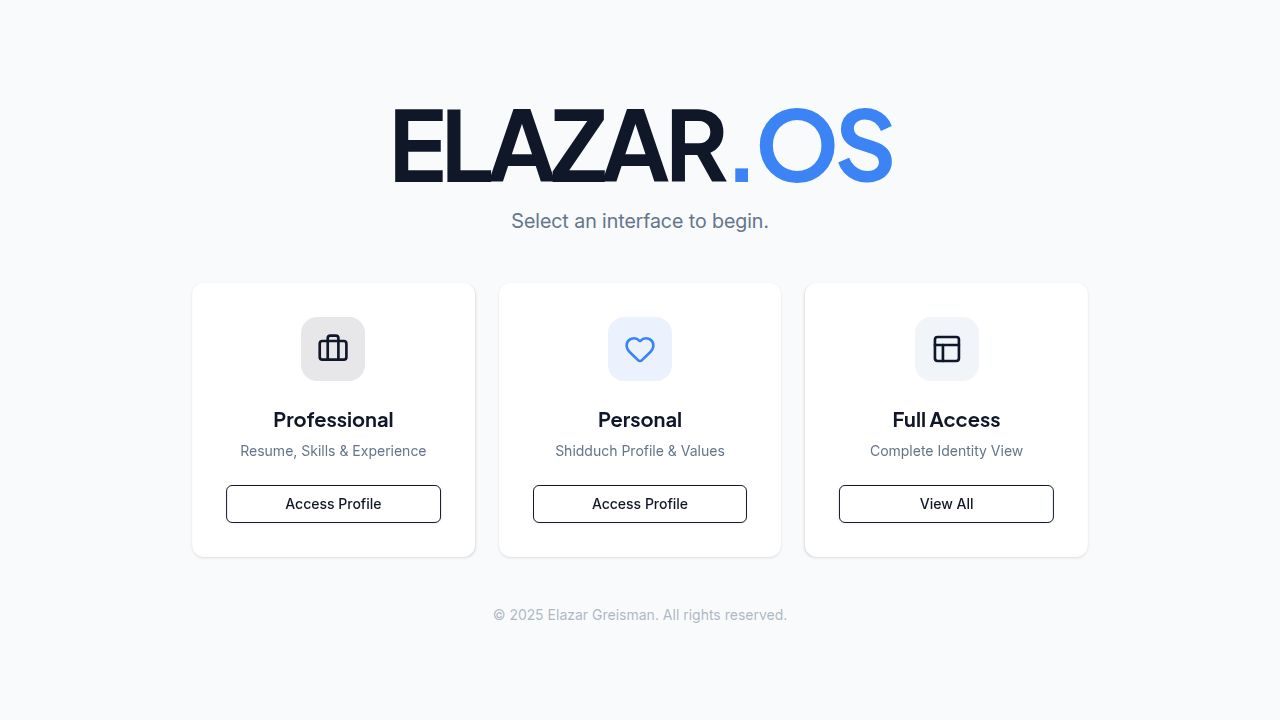
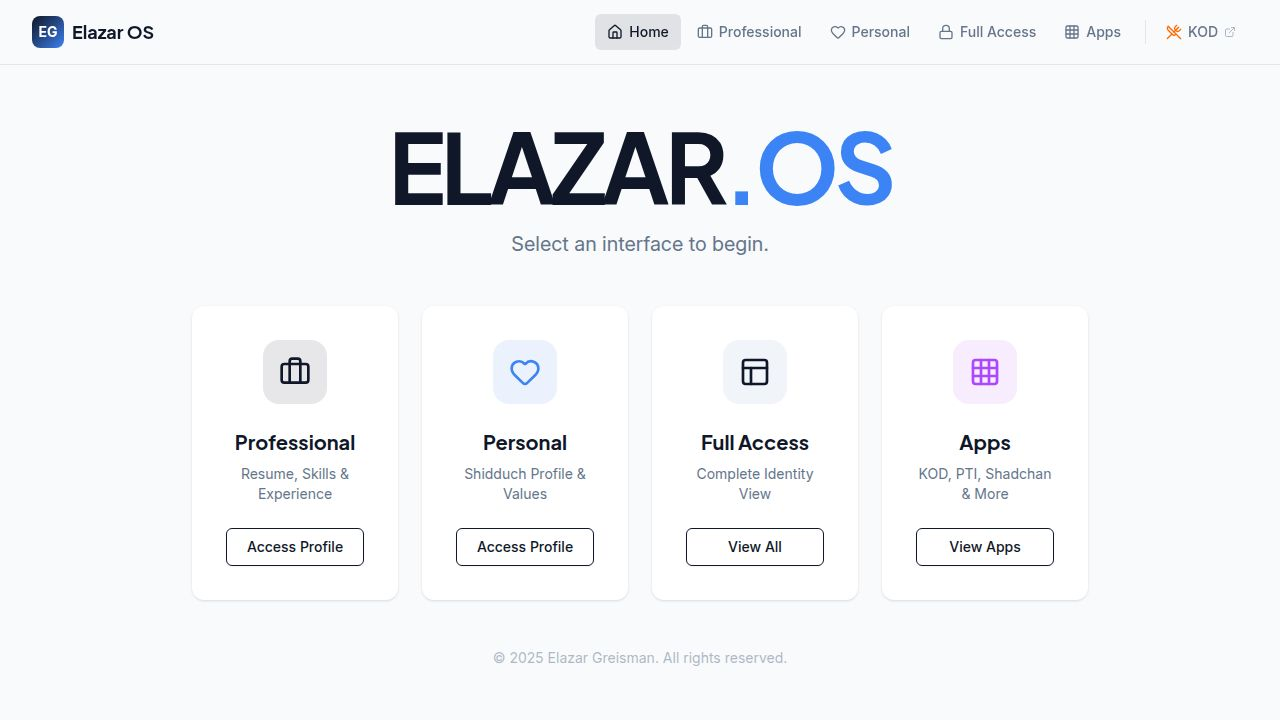
Update app navigation to show inactive status and disable clicks
Introduce an 'active' boolean to app configurations, update the UI to visually distinguish inactive apps with a disabled state and a "Paused" label, and modify navigation and redirect logic to prevent access to inactive applications.

Replit-Commit-Author: Agent
Replit-Commit-Session-Id: 11160768-0161-498d-b8f9-d958f617b627
Replit-Commit-Checkpoint-Type: intermediate_checkpoint
Replit-Commit-Event-Id: 2a1508cf-77b3-41a4-a05e-ec23b7ae3195
Replit-Commit-Screenshot-Url: https://storage.googleapis.com/screenshot-production-us-central1/93612fda-ee90-45bd-998a-401843e1e846/11160768-0161-498d-b8f9-d958f617b627/NwqTD3d
Replit-Helium-Checkpoint-Created: true

diff --git a/client/src/pages/apps-hub-page.tsx b/client/src/pages/apps-hub-page.tsx
@@ -1,9 +1,10 @@
-import { motion } from "framer-motion";
-import { ExternalLink, ArrowRight } from "lucide-react";
+import { useState } from "react";
+import { motion, AnimatePresence } from "framer-motion";
+import { ExternalLink, ArrowRight, PauseCircle, X } from "lucide-react";
 import { Card, CardContent, CardHeader, CardTitle, CardDescription } from "@/components/ui/card";
 import { Button } from "@/components/ui/button";
 import { Badge } from "@/components/ui/badge";
-import { APPS } from "@/lib/apps-config";
+import { APPS, type AppConfig } from "@/lib/apps-config";
 import { cn } from "@/lib/utils";
 import { TopNavigation } from "@/components/top-navigation";
 
@@ -28,9 +29,61 @@ const itemVariants = {
 };
 
 export default function AppsHubPage() {
+  const [pausedAppMessage, setPausedAppMessage] = useState<AppConfig | null>(null);
+
+  const handleAppClick = (app: AppConfig) => {
+    if (app.active) {
+      window.open(app.replitUrl, "_blank");
+    } else {
+      setPausedAppMessage(app);
+    }
+  };
+
   return (
     <div className="min-h-screen bg-background font-sans">
       <TopNavigation />
+
+      {/* Paused App Modal */}
+      <AnimatePresence>
+        {pausedAppMessage && (
+          <motion.div
+            initial={{ opacity: 0 }}
+            animate={{ opacity: 1 }}
+            exit={{ opacity: 0 }}
+            className="fixed inset-0 z-50 flex items-center justify-center bg-black/50 p-4"
+            onClick={() => setPausedAppMessage(null)}
+          >
+            <motion.div
+              initial={{ scale: 0.9, opacity: 0 }}
+              animate={{ scale: 1, opacity: 1 }}
+              exit={{ scale: 0.9, opacity: 0 }}
+              className="bg-card rounded-xl shadow-2xl max-w-md w-full p-6 relative"
+              onClick={(e) => e.stopPropagation()}
+            >
+              <button
+                onClick={() => setPausedAppMessage(null)}
+                className="absolute top-4 right-4 text-muted-foreground hover:text-foreground"
+                data-testid="close-paused-modal"
+              >
+                <X className="w-5 h-5" />
+              </button>
+              
+              <div className="flex flex-col items-center text-center space-y-4">
+                <div className="w-16 h-16 rounded-full bg-muted flex items-center justify-center">
+                  <PauseCircle className="w-8 h-8 text-muted-foreground" />
+                </div>
+                <h3 className="text-xl font-bold text-primary">{pausedAppMessage.name}</h3>
+                <p className="text-muted-foreground">
+                  {pausedAppMessage.pausedMessage || "This app is temporarily unavailable."}
+                </p>
+                <Button variant="outline" onClick={() => setPausedAppMessage(null)}>
+                  Got it
+                </Button>
+              </div>
+            </motion.div>
+          </motion.div>
+        )}
+      </AnimatePresence>
       
       <div className="max-w-6xl mx-auto p-4 md:p-8 lg:p-12">
         <motion.div
@@ -57,17 +110,24 @@ export default function AppsHubPage() {
           >
             {APPS.map((app) => {
               const Icon = app.icon;
+              const isInactive = !app.active;
+              
               return (
                 <motion.div key={app.id} variants={itemVariants}>
                   <Card 
-                    className="h-full overflow-hidden border-none shadow-lg hover:shadow-xl transition-all duration-300 group cursor-pointer"
-                    onClick={() => window.open(app.replitUrl, "_blank")}
+                    className={cn(
+                      "h-full overflow-hidden border-none shadow-lg transition-all duration-300 group",
+                      isInactive 
+                        ? "opacity-60 grayscale cursor-not-allowed" 
+                        : "hover:shadow-xl cursor-pointer"
+                    )}
+                    onClick={() => handleAppClick(app)}
                     data-testid={`app-card-${app.id}`}
                   >
                     {/* Gradient Header */}
                     <div className={cn(
                       "h-2 bg-gradient-to-r",
-                      app.gradient
+                      isInactive ? "from-gray-400 to-gray-500" : app.gradient
                     )} />
                     
                     <CardHeader className="pb-2">
@@ -75,15 +135,25 @@ export default function AppsHubPage() {
                         <div className={cn(
                           "w-12 h-12 rounded-xl flex items-center justify-center",
                           "bg-gradient-to-br shadow-md",
-                          app.gradient
+                          isInactive ? "from-gray-400 to-gray-500" : app.gradient
                         )}>
                           <Icon className="w-6 h-6 text-white" />
                         </div>
-                        <Badge variant="outline" className="text-xs">
-                          App
-                        </Badge>
+                        {isInactive ? (
+                          <Badge variant="secondary" className="text-xs bg-amber-100 text-amber-700 border-amber-200">
+                            <PauseCircle className="w-3 h-3 mr-1" />
+                            Paused
+                          </Badge>
+                        ) : (
+                          <Badge variant="outline" className="text-xs">
+                            App
+                          </Badge>
+                        )}
                       </div>
-                      <CardTitle className="text-xl font-heading mt-3 group-hover:text-primary transition-colors">
+                      <CardTitle className={cn(
+                        "text-xl font-heading mt-3 transition-colors",
+                        isInactive ? "text-muted-foreground" : "group-hover:text-primary"
+                      )}>
                         {app.name}
                       </CardTitle>
                     </CardHeader>
@@ -97,25 +167,38 @@ export default function AppsHubPage() {
                         <span className="text-xs text-muted-foreground font-mono">
                           {app.subdomain}
                         </span>
-                        <Button 
-                          size="sm" 
-                          className={cn(
-                            "bg-gradient-to-r text-white border-none",
-                            app.gradient
-                          )}
-                          asChild
-                        >
-                          <a 
-                            href={app.replitUrl}
-                            target="_blank"
-                            rel="noopener noreferrer"
-                            onClick={(e) => e.stopPropagation()}
+                        {isInactive ? (
+                          <Button 
+                            size="sm" 
+                            variant="secondary"
+                            className="opacity-50"
+                            disabled
                             data-testid={`open-app-${app.id}`}
                           >
-                            Open App
-                            <ArrowRight className="w-4 h-4 ml-1 group-hover:translate-x-1 transition-transform" />
-                          </a>
-                        </Button>
+                            <PauseCircle className="w-4 h-4 mr-1" />
+                            Paused
+                          </Button>
+                        ) : (
+                          <Button 
+                            size="sm" 
+                            className={cn(
+                              "bg-gradient-to-r text-white border-none",
+                              app.gradient
+                            )}
+                            asChild
+                          >
+                            <a 
+                              href={app.replitUrl}
+                              target="_blank"
+                              rel="noopener noreferrer"
+                              onClick={(e) => e.stopPropagation()}
+                              data-testid={`open-app-${app.id}`}
+                            >
+                              Open App
+                              <ArrowRight className="w-4 h-4 ml-1 group-hover:translate-x-1 transition-transform" />
+                            </a>
+                          </Button>
+                        )}
                       </div>
                     </CardContent>
                   </Card>

diff --git a/client/src/components/top-navigation.tsx b/client/src/components/top-navigation.tsx
@@ -1,8 +1,8 @@
 import { useState } from "react";
 import { useLocation } from "wouter";
-import { Menu, X, ExternalLink } from "lucide-react";
+import { Menu, X, ExternalLink, PauseCircle } from "lucide-react";
 import { Button } from "@/components/ui/button";
-import { NAV_PAGES, APPS } from "@/lib/apps-config";
+import { NAV_PAGES, APPS, ACTIVE_APPS } from "@/lib/apps-config";
 import { cn } from "@/lib/utils";
 
 export function TopNavigation() {
@@ -62,8 +62,8 @@ export function TopNavigation() {
             {/* Separator */}
             <div className="w-px h-6 bg-border mx-2" />
 
-            {/* App Links */}
-            {APPS.map((app) => {
+            {/* App Links - Only show active apps in nav */}
+            {ACTIVE_APPS.map((app) => {
               const Icon = app.icon;
               return (
                 <a
@@ -131,6 +131,22 @@ export function TopNavigation() {
                 <p className="px-3 py-1 text-xs font-semibold text-muted-foreground uppercase tracking-wider">Apps</p>
                 {APPS.map((app) => {
                   const Icon = app.icon;
+                  const isInactive = !app.active;
+                  
+                  if (isInactive) {
+                    return (
+                      <div
+                        key={app.id}
+                        className="flex items-center gap-3 px-3 py-2 rounded-md text-sm font-medium text-muted-foreground/50 cursor-not-allowed"
+                        data-testid={`mobile-nav-app-${app.id}`}
+                      >
+                        <Icon className="w-4 h-4 text-gray-400" />
+                        {app.name}
+                        <PauseCircle className="w-3 h-3 ml-auto text-amber-500" />
+                      </div>
+                    );
+                  }
+                  
                   return (
                     <a
                       key={app.id}

diff --git a/client/src/pages/app-redirect-page.tsx b/client/src/pages/app-redirect-page.tsx
@@ -1,18 +1,49 @@
 import { useEffect } from "react";
 import { useLocation } from "wouter";
-import { Loader2 } from "lucide-react";
+import { Loader2, PauseCircle, ArrowLeft } from "lucide-react";
 import { getAppById } from "@/lib/apps-config";
+import { Button } from "@/components/ui/button";
+import { Card, CardContent } from "@/components/ui/card";
 
 export default function AppRedirectPage() {
-  const [location] = useLocation();
+  const [location, setLocation] = useLocation();
   const appId = location.split('/').filter(Boolean)[0] || "";
   const app = getAppById(appId);
 
   useEffect(() => {
-    if (app) {
+    if (app && app.active) {
       window.location.href = app.replitUrl;
     }
   }, [app]);
+
+  // Show paused message for inactive apps
+  if (app && !app.active) {
+    return (
+      <div className="min-h-screen flex items-center justify-center bg-background p-4">
+        <Card className="max-w-md w-full shadow-xl">
+          <CardContent className="p-8">
+            <div className="flex flex-col items-center text-center space-y-4">
+              <div className="w-16 h-16 rounded-full bg-amber-100 flex items-center justify-center">
+                <PauseCircle className="w-8 h-8 text-amber-600" />
+              </div>
+              <h2 className="text-2xl font-bold text-primary">{app.name}</h2>
+              <p className="text-muted-foreground">
+                {app.pausedMessage || "This app is temporarily unavailable."}
+              </p>
+              <Button 
+                variant="outline" 
+                onClick={() => setLocation("/apps")}
+                className="mt-4"
+              >
+                <ArrowLeft className="w-4 h-4 mr-2" />
+                Back to Apps
+              </Button>
+            </div>
+          </CardContent>
+        </Card>
+      </div>
+    );
+  }
 
   if (!app) {
     return (

diff --git a/client/src/lib/apps-config.ts b/client/src/lib/apps-config.ts
@@ -9,6 +9,8 @@ export interface AppConfig {
   icon: typeof UtensilsCrossed;
   color: string;
   gradient: string;
+  active: boolean;
+  pausedMessage?: string;
 }
 
 export const APPS: AppConfig[] = [
@@ -20,7 +22,8 @@ export const APPS: AppConfig[] = [
     replitUrl: "https://menu-sync-screen--hdg4bz496c.replit.app/",
     icon: UtensilsCrossed,
     color: "text-orange-500",
-    gradient: "from-orange-500 to-amber-500"
+    gradient: "from-orange-500 to-amber-500",
+    active: true
   },
   {
     id: "pti",
@@ -30,7 +33,9 @@ export const APPS: AppConfig[] = [
     replitUrl: "https://pti-young-pros--hdg4bz496c.replit.app/",
     icon: Users,
     color: "text-blue-500",
-    gradient: "from-blue-500 to-cyan-500"
+    gradient: "from-blue-500 to-cyan-500",
+    active: false,
+    pausedMessage: "PTI Young Pros is temporarily paused. Check back soon!"
   },
   {
     id: "shadchan",
@@ -40,7 +45,9 @@ export const APPS: AppConfig[] = [
     replitUrl: "https://privacy-first-matchmaking--hdg4bz496c.replit.app/",
     icon: Heart,
     color: "text-pink-500",
-    gradient: "from-pink-500 to-rose-500"
+    gradient: "from-pink-500 to-rose-500",
+    active: false,
+    pausedMessage: "Shadchan is temporarily paused for maintenance. Check back soon!"
   },
   {
     id: "gary",
@@ -50,9 +57,14 @@ export const APPS: AppConfig[] = [
     replitUrl: "https://gary-king-chatbot-hdg4bz496c.replit.app/",
     icon: MessageCircle,
     color: "text-purple-500",
-    gradient: "from-purple-500 to-violet-500"
+    gradient: "from-purple-500 to-violet-500",
+    active: false,
+    pausedMessage: "Gary King is taking a break. Check back soon!"
   }
 ];
+
+export const ACTIVE_APPS = APPS.filter(app => app.active);
+export const INACTIVE_APPS = APPS.filter(app => !app.active);
 
 export const NAV_PAGES = [
   { id: "home", name: "Home", path: "/", icon: Home },
